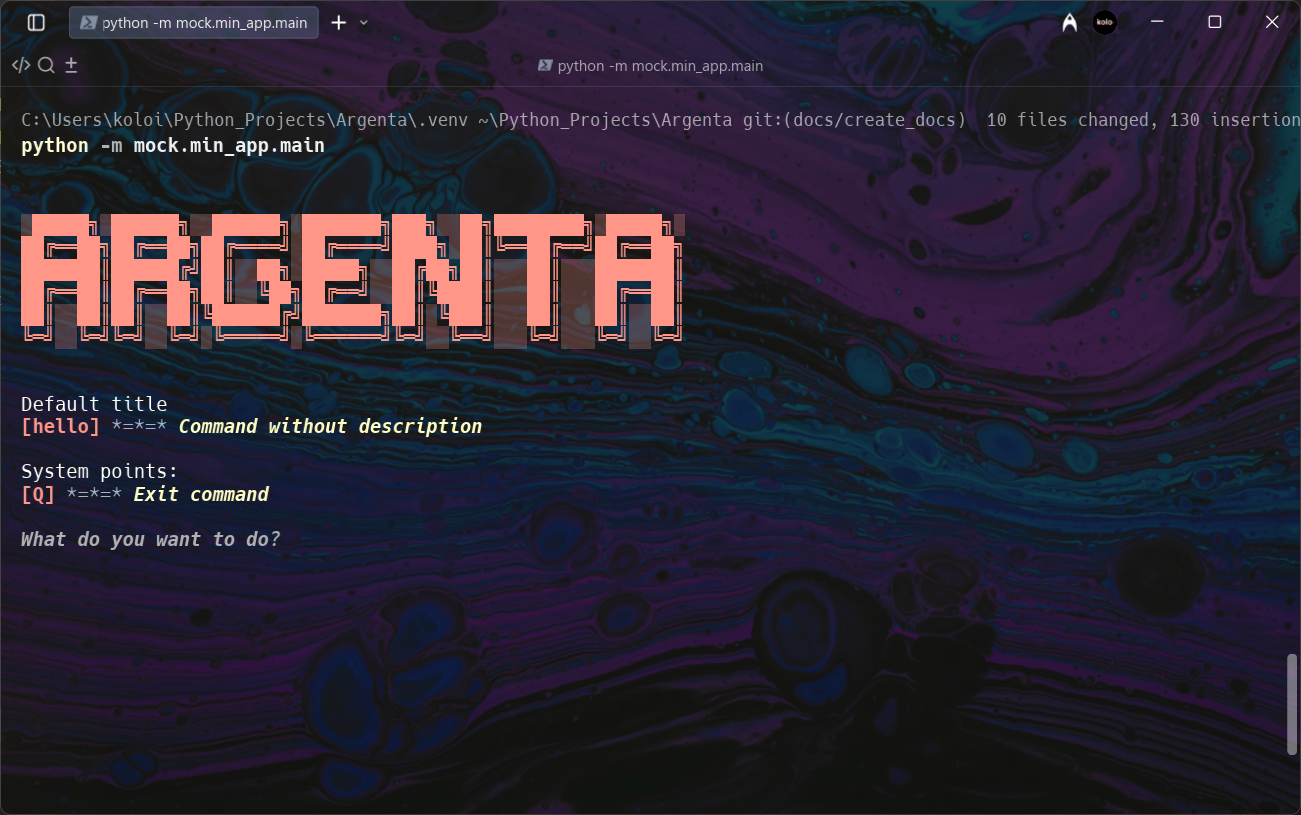
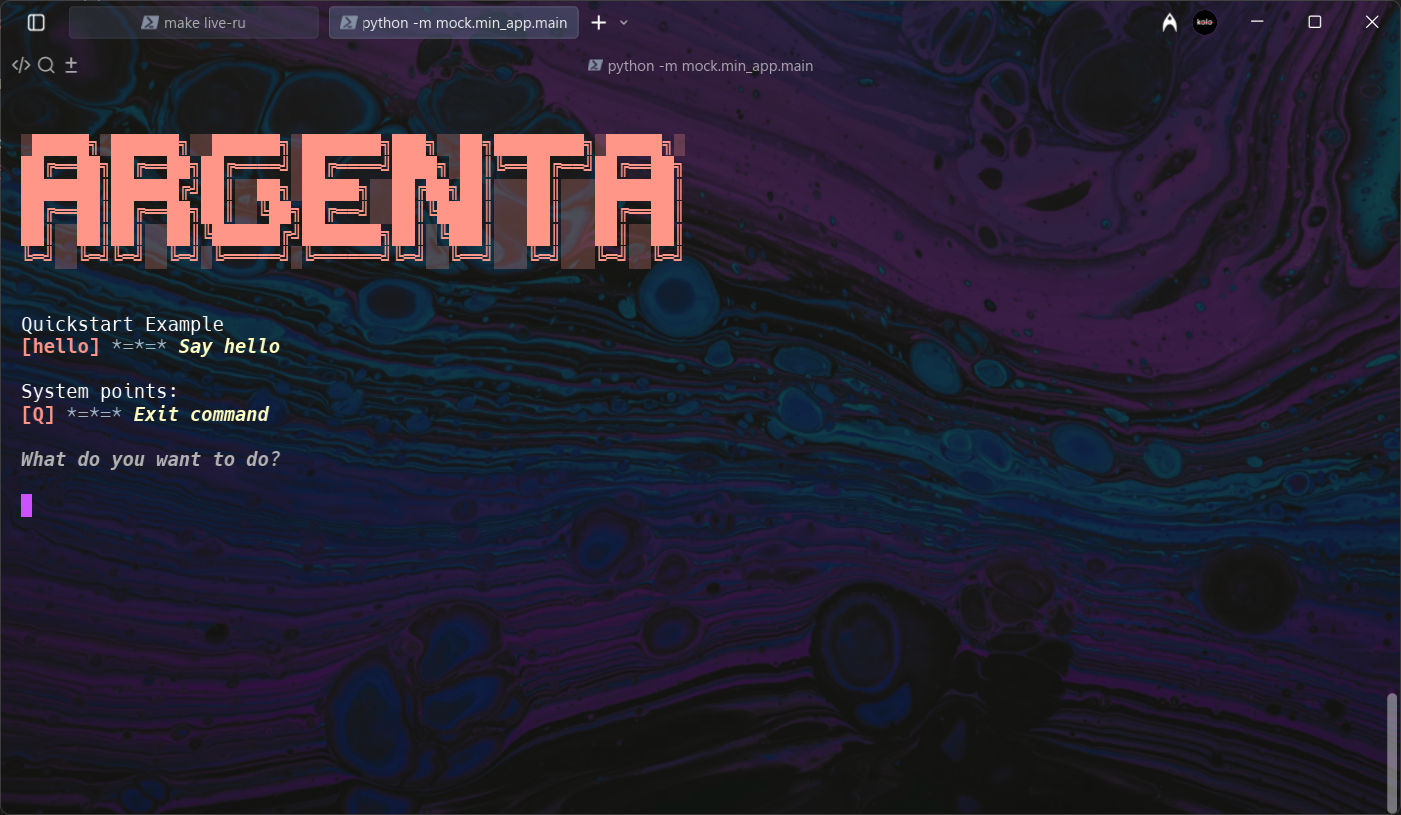
docs

diff --git a/docs/code_snippets/quickstart_example_routers.py b/docs/code_snippets/quickstart_example_routers.py
@@ -1,9 +1,9 @@
 # routers.py
-from argenta import Router, Response
+from argenta import Router, Response, Command
 
-router = Router()
+router = Router(title="Quickstart Example")
 
-@router.command("hello")
+@router.command(Command("hello", description="Say hello"))
 def handler(response: Response):
     print("Hello, world!")
     

diff --git a/mock/min_app/routers.py b/mock/min_app/routers.py
@@ -1,9 +1,9 @@
 # routers.py
-from argenta import Router, Response
+from argenta import Router, Response, Command
 
-router = Router()
+router = Router(title="Quickstart Example")
 
-@router.command("hello")
+@router.command(Command("hello", description="Say hello"))
 def handler(response: Response):
     print("Hello, world!")
     

diff --git a/docs/conf.py b/docs/conf.py
@@ -9,7 +9,7 @@
 project = "Argenta"
 copyright = "2025, kolo"
 author = "kolo"
-master_doc = "index"
+master_doc = "root/index"
 
 # -- General configuration ---------------------------------------------------
 # https://www.sphinx-doc.org/en/master/usage/configuration.html#general-configuration

diff --git a/docs/root/index.rst b/docs/root/index.rst
@@ -4,18 +4,19 @@
    contain the root `toctree` directive.
 
 Argenta
-=============================================
+*******
 
 **Библиотека для построения модульных CLI-приложений с простым и приятным API.**
 
-У вас есть некая функциональность и вы хотите распространять её в виде cli? Argenta поможет вам.
+У вас есть некая функциональность и вы хотите распространять её в виде CLI? Argenta поможет вам.
 Основная цель библиотеки дать возможность разработчикам сфокусироваться на реализации своих идей, предоставляя для этого удобные абстракциию.
 
 .. image:: https://github.com/koloideal/Argenta/blob/main/imgs/mock_app_preview4.png?raw=True
    :alt: Пример приложения
 
 Argenta нужна для создания приложений, которым необходим свой скоуп, то есть: при запуске приложения юзер входит в абстрагированный скоуп,
-в котором у него есть доступ к созданной функциональности
+в котором у него есть доступ к созданной функциональности.
+
 Один из основных принципов библиотеки это цикличность, это значит, что после ввода юзером команды он не выходит из скоупа, в этом основное 
 отличие от таких библиотек, как ``argparse``, ``click`` и ``typer``. Выход из скоупа контролируется самим юзером.
 
@@ -39,8 +40,9 @@ Argenta нужна для создания приложений, которым 
     quickstart
     error_handling
     dependency_injection
+    overriding_formatting
     redirect_stdout
-    api/index
+    ../api/index
 
 .. toctree::
     :hidden:

diff --git a/docs/root/quickstart.rst b/docs/root/quickstart.rst
@@ -11,12 +11,12 @@
     
 2. **Определение роутера и хэндлеров**, за регистрацию функции как обработчика отвечает декоратор ``@router.command``, хэндлер всегда должен принимать аргумент с типом ``Response``, подробнее в :ref:`разделе <Response>`.
 
-.. literalinclude:: ./code_snippets/quickstart_example_routers.py
+.. literalinclude:: ../code_snippets/quickstart_example_routers.py
    :language: python
    
 3. **Определение приложения и оркестратора**, для запуска приложения необходимо вызвать ``.include_router()`` у созданного приложения и передать ему раннее созданный роутер, после этого необходимо вызвать ``.start_polling()`` у созданного оркестратора и передать ему созданное приложение.
 
-.. literalinclude:: ./code_snippets/quickstart_example_main.py
+.. literalinclude:: ../code_snippets/quickstart_example_main.py
    :language: python
    
 4. **Запуск приложения**, запускаем приложение как обычный процесс.

diff --git a/docs/root/overriding_formatting.rst b/docs/root/overriding_formatting.rst
@@ -1,0 +1,4 @@
+.. _overriding_formatting:
+
+Переопределение форматирования
+*****************************************
